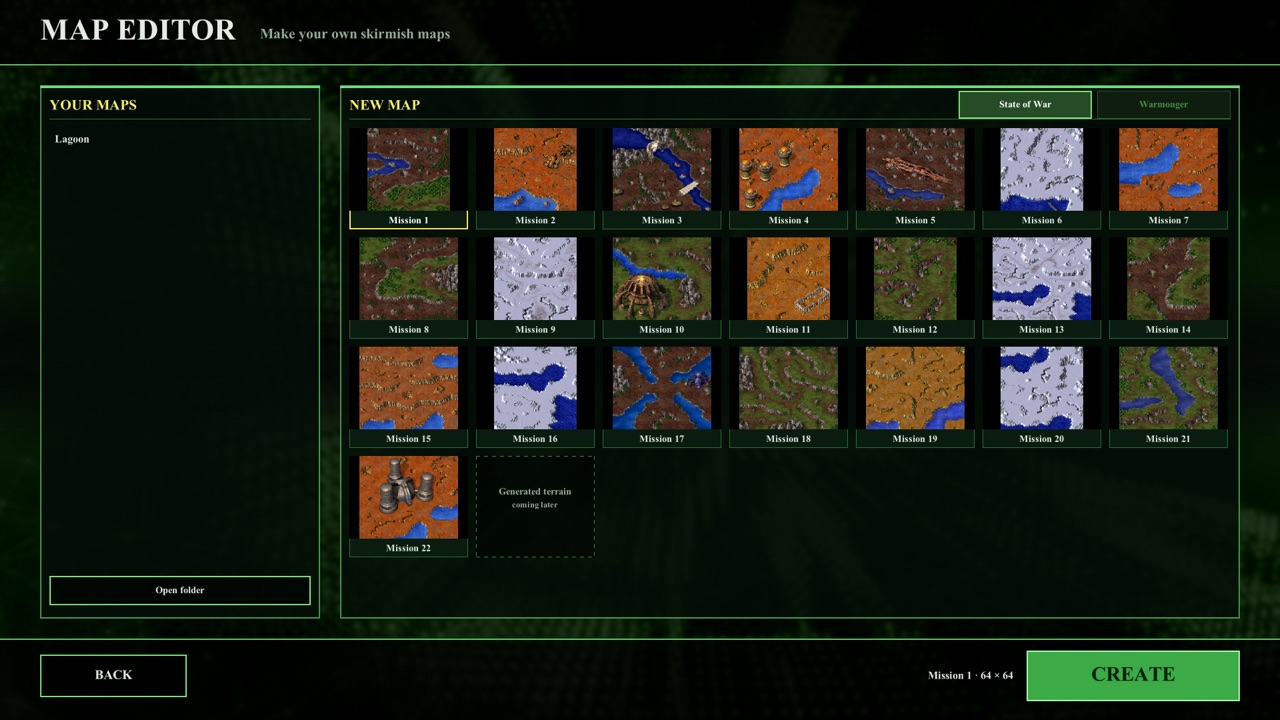
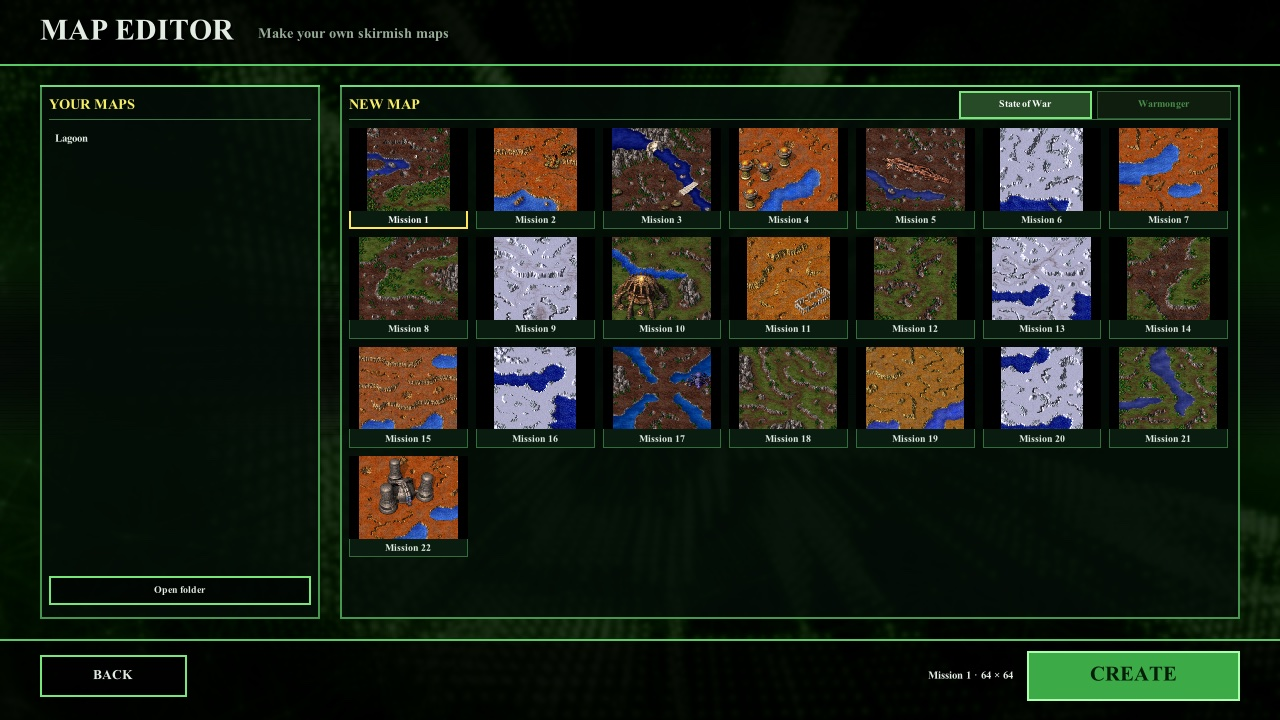
docs: README screenshots and text for 0.2.0
The map editor start page no longer has the generated-terrain tile, the options page shows swap mouse buttons and turret shadows on, and a new section shows the Controls menu. The enhancements list is complete and savegames in the original format are mentioned.

diff --git a/docs/map-editor-ingame.md b/docs/map-editor-ingame.md
@@ -29,7 +29,7 @@ Keys: B (where nothing can be built), Esc (stop placing, deselect, Back), Delete
 Everything is translated in `tr.rs` (EN, SK, CZ, CS, CT); names of buildings, turrets, units, production levels and air forces, CREDITS / RESEARCH and the Advancer come from the language files (`LangFile` indices: units 173-187, walkers 188-192, Advancer 193, Rogon bomb 194, turrets 195-199, air forces 200-204, buildings 205-213, levels 219-227).
 
 ## Terrain
-A map's ground is one of the 22 campaign missions' terrains of the base game, or of Warmonger when it is installed (`custom_maps::terrains`, `terrain_source`: the `GameDir` edition picks the install). It fixes the size, water, cliffs and no-build cells. Level header word 1 holds the mission, the port's block the edition. The generator's tile is a placeholder: a generated terrain will need its own record in the block.
+A map's ground is one of the 22 campaign missions' terrains of the base game, or of Warmonger when it is installed (`custom_maps::terrains`, `terrain_source`: the `GameDir` edition picks the install). It fixes the size, water, cliffs and no-build cells. Level header word 1 holds the mission, the port's block the edition. A composed ground (docs/generated-maps.md) is kept in its own record, LAYOUT; the start page offers only the missions' terrains.
 
 ## Map name and file name
 - The name keeps what was typed: control characters dropped, spaces collapsed, at most 32 characters (`custommap::clean_name`).

diff --git a/README.md b/README.md
@@ -13,7 +13,8 @@ OpenSOW rebuilds the State of War engine so the game runs natively on today's ma
 data from your own copy.
 
 - **Faithful to the original**: game rules, AI and file formats are decoded from the original
-  executable; every known deviation is documented in [docs/](docs/).
+  executable, and savegames are written in the original format; every known deviation is
+  documented in [docs/](docs/).
 - **Runs everywhere**: native builds, any resolution up to 4K, no Wine.
 - **Preserves and extends**: both campaigns in one game, plus skirmish, a map editor and optional
   enhancements.
@@ -91,12 +92,20 @@ processor.
 
 ### Extra options
 
-Optional enhancements: sharper textures when zoomed in, soft shadows, explosion glow, better
+Optional enhancements, each with its own switch: sharper textures when zoomed in, soft shadows,
+contact shadows under buildings and units, explosion glow, a shadow under every turret, better
 sound, turret range while placing, and map zoom.
 
 ![](docs/screenshots/options-enhancements.jpg)
 
 ![](docs/screenshots/enhanced-zoom.jpg)
+
+### Your own controls
+
+Bind every hotkey to two keys or extra mouse buttons (middle, back, forward) in the Controls
+menu, or swap the mouse buttons to give orders with the right click.
+
+![](docs/screenshots/controls.jpg)
 
 Also: resolutions up to 4K, five interface languages, and a launcher that finds your games, holds
 the settings and updates itself.
